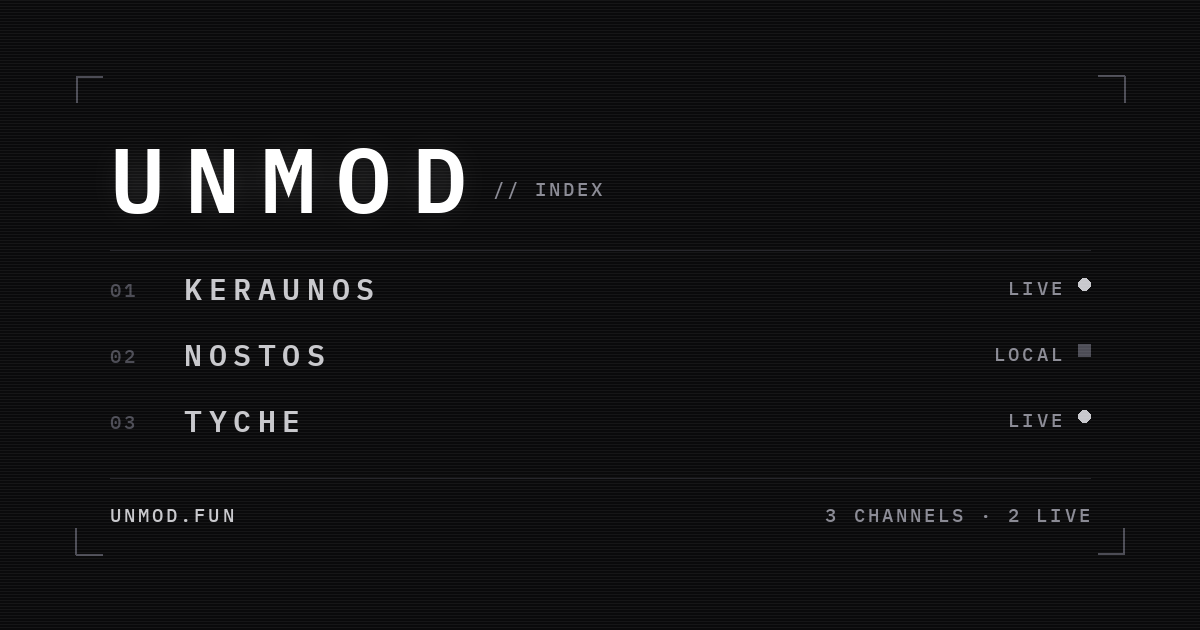
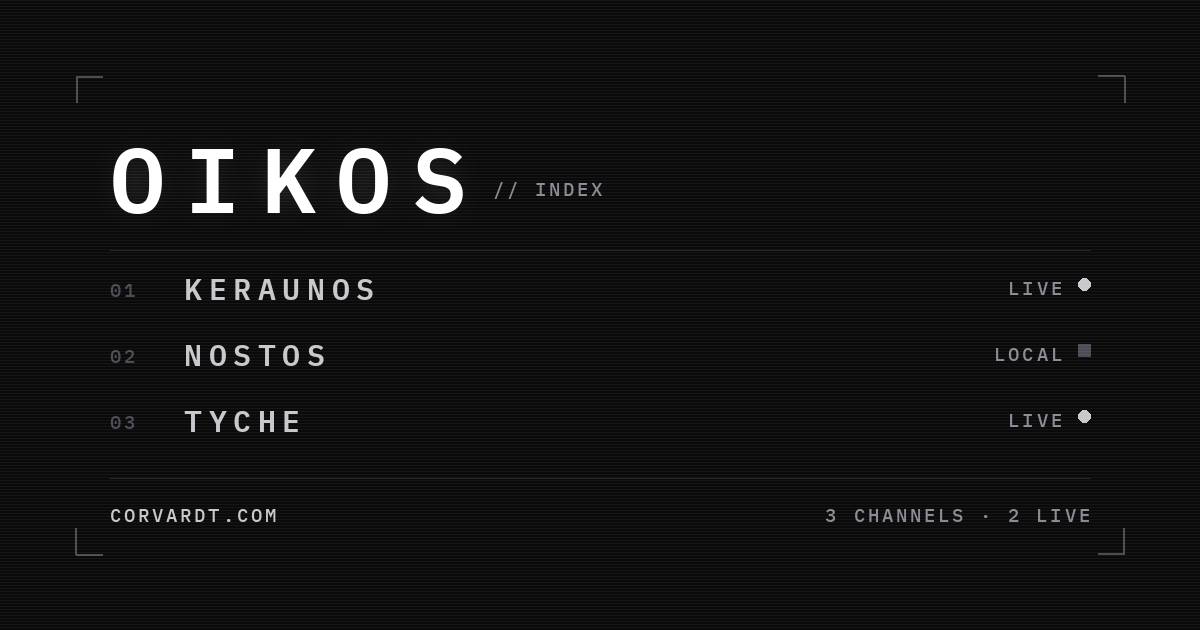
Carry the domain change through the cookie and the card

Changed region(s): [[0.0925, 0.2111, 0.2775, 0.3619], [0.0925, 0.7841, 0.2467, 0.8444], [0.3392, 0.2413, 0.4008, 0.3317]]

diff --git a/theme.js b/theme.js
@@ -1,15 +1,15 @@
 /* ── theme.js ───────────────────────────────────────────────────────────────
    Two media, not one palette inverted. The choice is written to a cookie on
-   `.unmod.fun` rather than localStorage, so it carries from the index to every
+   `.corvardt.com` rather than localStorage, so it carries from the index to every
    project subdomain: the whole domain behaves as one set, not as several.
 
    Loaded with `defer`; the medium itself is resolved by the inline script in
    the document head, before first paint, so the tube never flashes on paper. */
 
-const KEY = 'unmod-theme';
+const KEY = 'corvardt-theme';
 
 export function store(theme) {
-  const domain = location.hostname.endsWith('unmod.fun') ? '; domain=.unmod.fun' : '';
+  const domain = location.hostname.endsWith('corvardt.com') ? '; domain=.corvardt.com' : '';
   // One year, root path, so every subdomain reads the same value.
   document.cookie = `${KEY}=${theme}; path=/; max-age=31536000; samesite=lax${domain}`;
 }

diff --git a/index.html b/index.html
@@ -35,10 +35,10 @@
     <link rel="stylesheet" href="/index.css" />
     <script>
       // Resolve the medium before first paint so the tube never flashes on
-      // paper. The cookie is written on `.unmod.fun`, so a choice made on any
+      // paper. The cookie is written on `.corvardt.com`, so a choice made on any
       // project carries here and back again.
       (function () {
-        var m = document.cookie.match(/(?:^|;\s*)unmod-theme=(dark|light)/);
+        var m = document.cookie.match(/(?:^|;\s*)corvardt-theme=(dark|light)/);
         var t = m ? m[1] : matchMedia('(prefers-color-scheme: light)').matches ? 'light' : 'dark';
         document.documentElement.dataset.theme = t;
       })();

diff --git a/og.py b/og.py
@@ -98,9 +98,9 @@ def build():
 
     # ── Wordmark. The only white on the card, and it blooms. ────────────────
     bloom = Image.new("RGBA", (W, H), (0, 0, 0, 0))
-    tracked(ImageDraw.Draw(bloom), (MARGIN + 34, 118), "UNMOD", mark, (255, 255, 255, 90), 0.22)
+    tracked(ImageDraw.Draw(bloom), (MARGIN + 34, 118), "OIKOS", mark, (255, 255, 255, 90), 0.22)
     card.alpha_composite(bloom.filter(ImageFilter.GaussianBlur(18)))
-    width = tracked(draw, (MARGIN + 34, 118), "UNMOD", mark, STRIKE, 0.22)
+    width = tracked(draw, (MARGIN + 34, 118), "OIKOS", mark, STRIKE, 0.22)
     tracked(draw, (MARGIN + 34 + width + 26, 176), "// INDEX", label, DIM, 0.14)
 
     draw.line([(MARGIN + 34, 250), (W - MARGIN - 34, 250)], fill=LINE, width=1)
@@ -150,7 +150,7 @@ def build():
     live = sum(1 for s in entries if s and s["status"] == "live")
     total = len(entries)
     draw.line([(MARGIN + 34, H - 152), (W - MARGIN - 34, H - 152)], fill=LINE, width=1)
-    tracked(draw, (MARGIN + 34, H - 128), "UNMOD.FUN", label, TEXT, 0.14)
+    tracked(draw, (MARGIN + 34, H - 128), "CORVARDT.COM", label, TEXT, 0.14)
     tally = f"{total} {'CHANNEL' if total == 1 else 'CHANNELS'} · {live} LIVE"
     tracked(draw, (W - MARGIN - 34, H - 128), tally, label, DIM, 0.14, anchor_right=True)
 

diff --git a/README.md b/README.md
@@ -2,7 +2,7 @@
 
 οἶκος — the household.
 
-The index at [unmod.fun](https://unmod.fun), and the place the projects live.
+The index at [corvardt.com](https://corvardt.com), and the place the projects live.
 A short body of work is not a grid of cards — it is a set of channels you tune
 between, so the page is one tube and each project is a station on it. Only the
 tuned record is allowed to reach white.
@@ -25,7 +25,7 @@ has to be served — opening `index.html` from disk will not work.
 | --- | --- |
 | **Point** | Hovering a record tunes it: the row lights and its corner ticks appear. Tuning is silent — the only motion on the glass is ambient, so running the pointer down the list sets nothing off |
 | **Keys** | `↑` `↓` or `j` `k` tune · `1`–`9` jump to a channel · `↵` open · `t` switch medium |
-| **Medium** | `tube` is phosphor on black, `paper` is ink on chart stock. The choice is a cookie on `.unmod.fun`, so it carries to every project subdomain |
+| **Medium** | `tube` is phosphor on black, `paper` is ink on chart stock. The choice is a cookie on `.corvardt.com`, so it carries to every project subdomain |
 
 ## Adding a project
 
@@ -37,7 +37,7 @@ the channels and counts them itself.
   name: 'NAME',
   etym: 'ἔτυμον — what it means',
   desc: 'Two lines at most. What it does, not why it matters.',
-  host: 'name.unmod.fun',
+  host: 'name.corvardt.com',
   stack: 'react · d3 · websocket',
   status: 'live',
 }
@@ -80,11 +80,12 @@ else in the interface is allowed to reach it; in `paper` black takes over that
 role. The whole page is otherwise built out of `dim`, `land` and `text`.
 
 The medium is resolved by an inline script in the head, before first paint, so
-the tube never flashes on paper. It reads a cookie scoped to `.unmod.fun`
+the tube never flashes on paper. It reads a cookie scoped to `.corvardt.com`
 rather than `localStorage`, which is per-origin and would not survive the jump
-to a subdomain. Keraunos needs a matching fallback in its own head script for
-the handoff to work in both directions — it currently reads
-`keraunos-theme`/`lightning-theme` out of `localStorage`.
+to a subdomain. The cookie is named `corvardt-theme`; each project needs a
+matching read in its own head script for the handoff to work in both
+directions — Keraunos currently reads `keraunos-theme`/`lightning-theme` out of
+`localStorage`.
 
 The portrait is composited rather than pasted on: screened on the tube, so the
 black plate falls away and the figure reads as emitted light; inverted and
